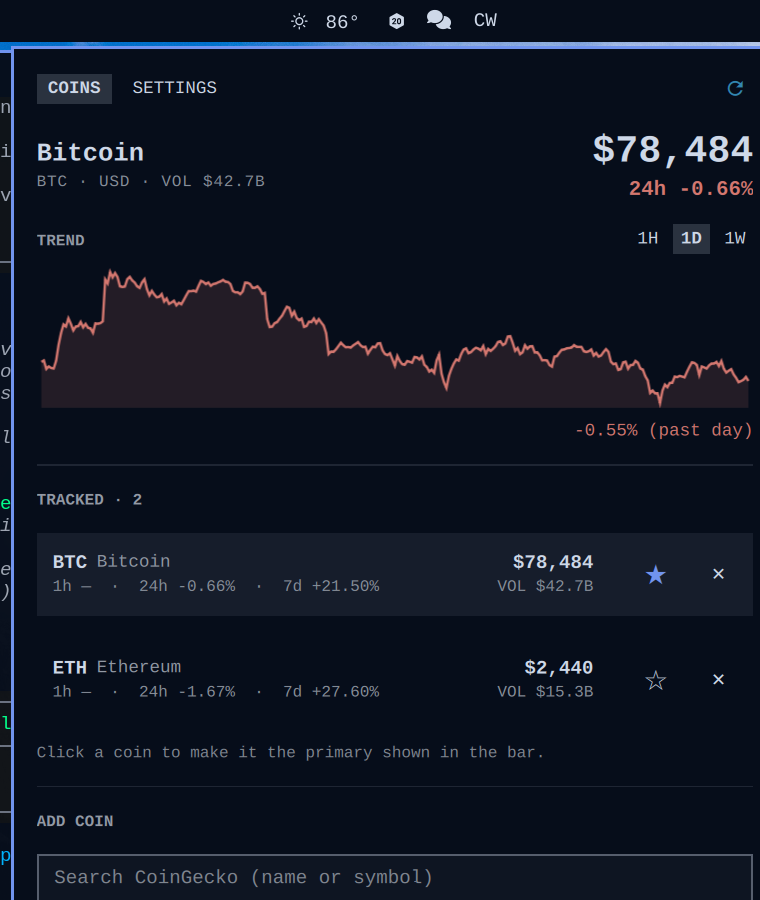
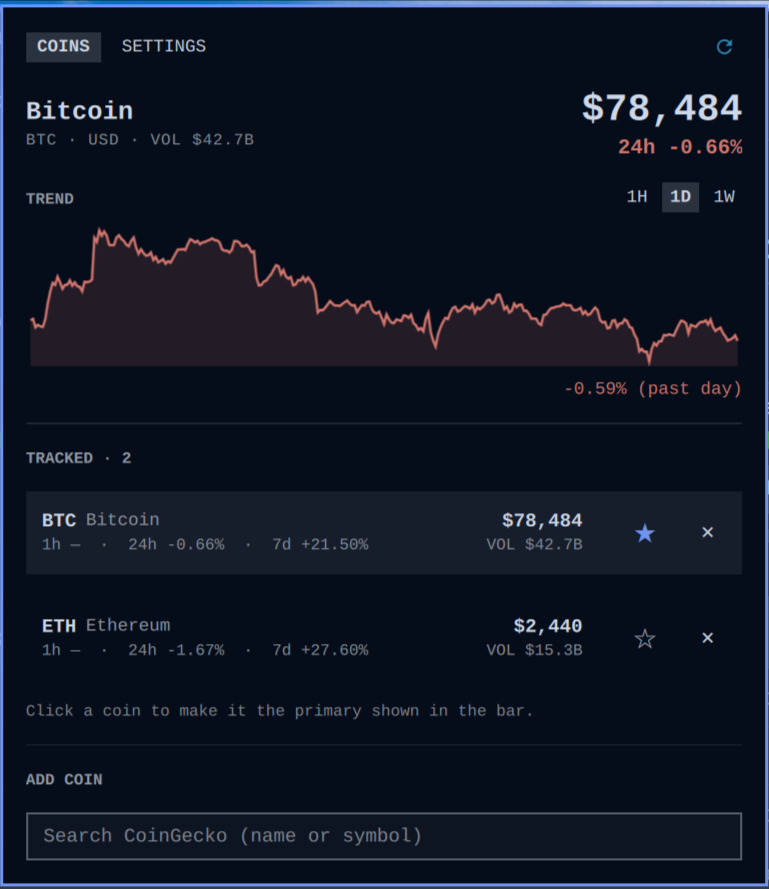
Use the full popup screenshot as the preview
The tighter crop lost the tracked list and add-coin search; the full
panel shot shows everything the plugin does.

diff --git a/README.md b/README.md
@@ -1,8 +1,6 @@
 # OmaCoin
 
-![OmaCoin panel](preview.png)
-
-![OmaCoin — the full popup: hero, trend, tracked list, add-coin search](example.png)
+![OmaCoin — the popup over the bar: hero, trend, tracked list, add-coin search](preview.png)
 
 An [Omarchy](https://omarchy.org/) shell plugin that tracks crypto prices via
 the [CoinGecko](https://www.coingecko.com/) public API.
